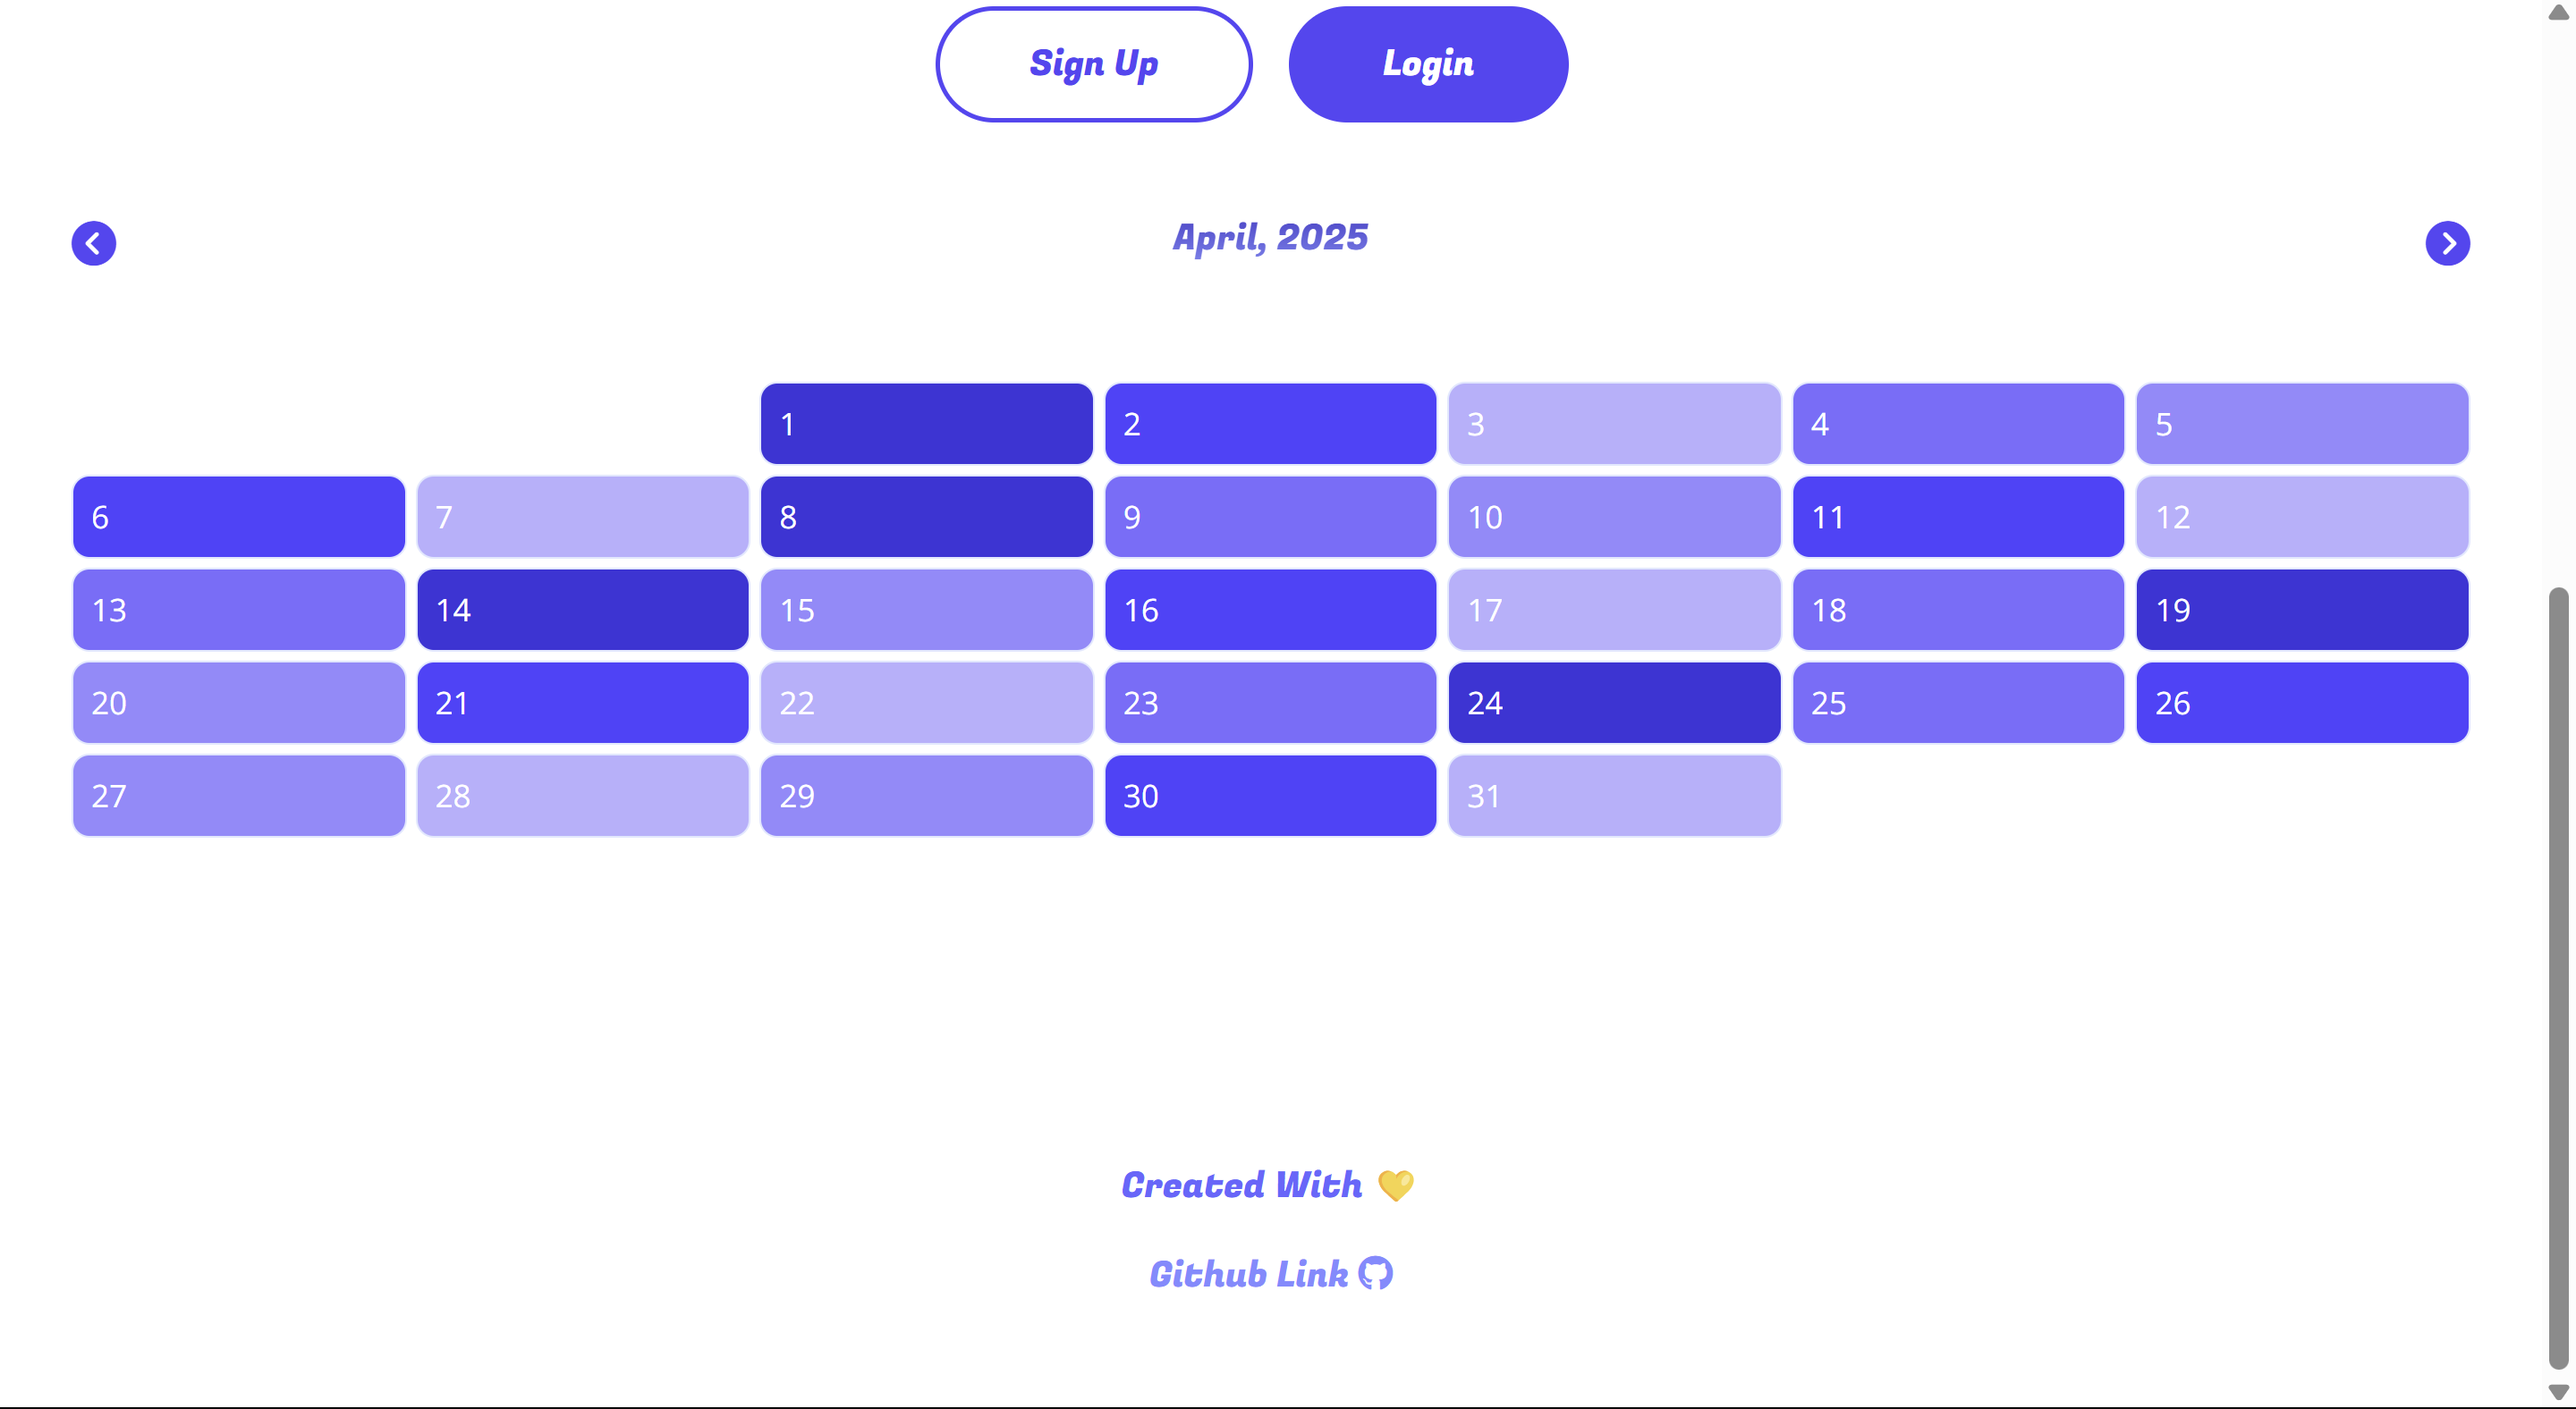
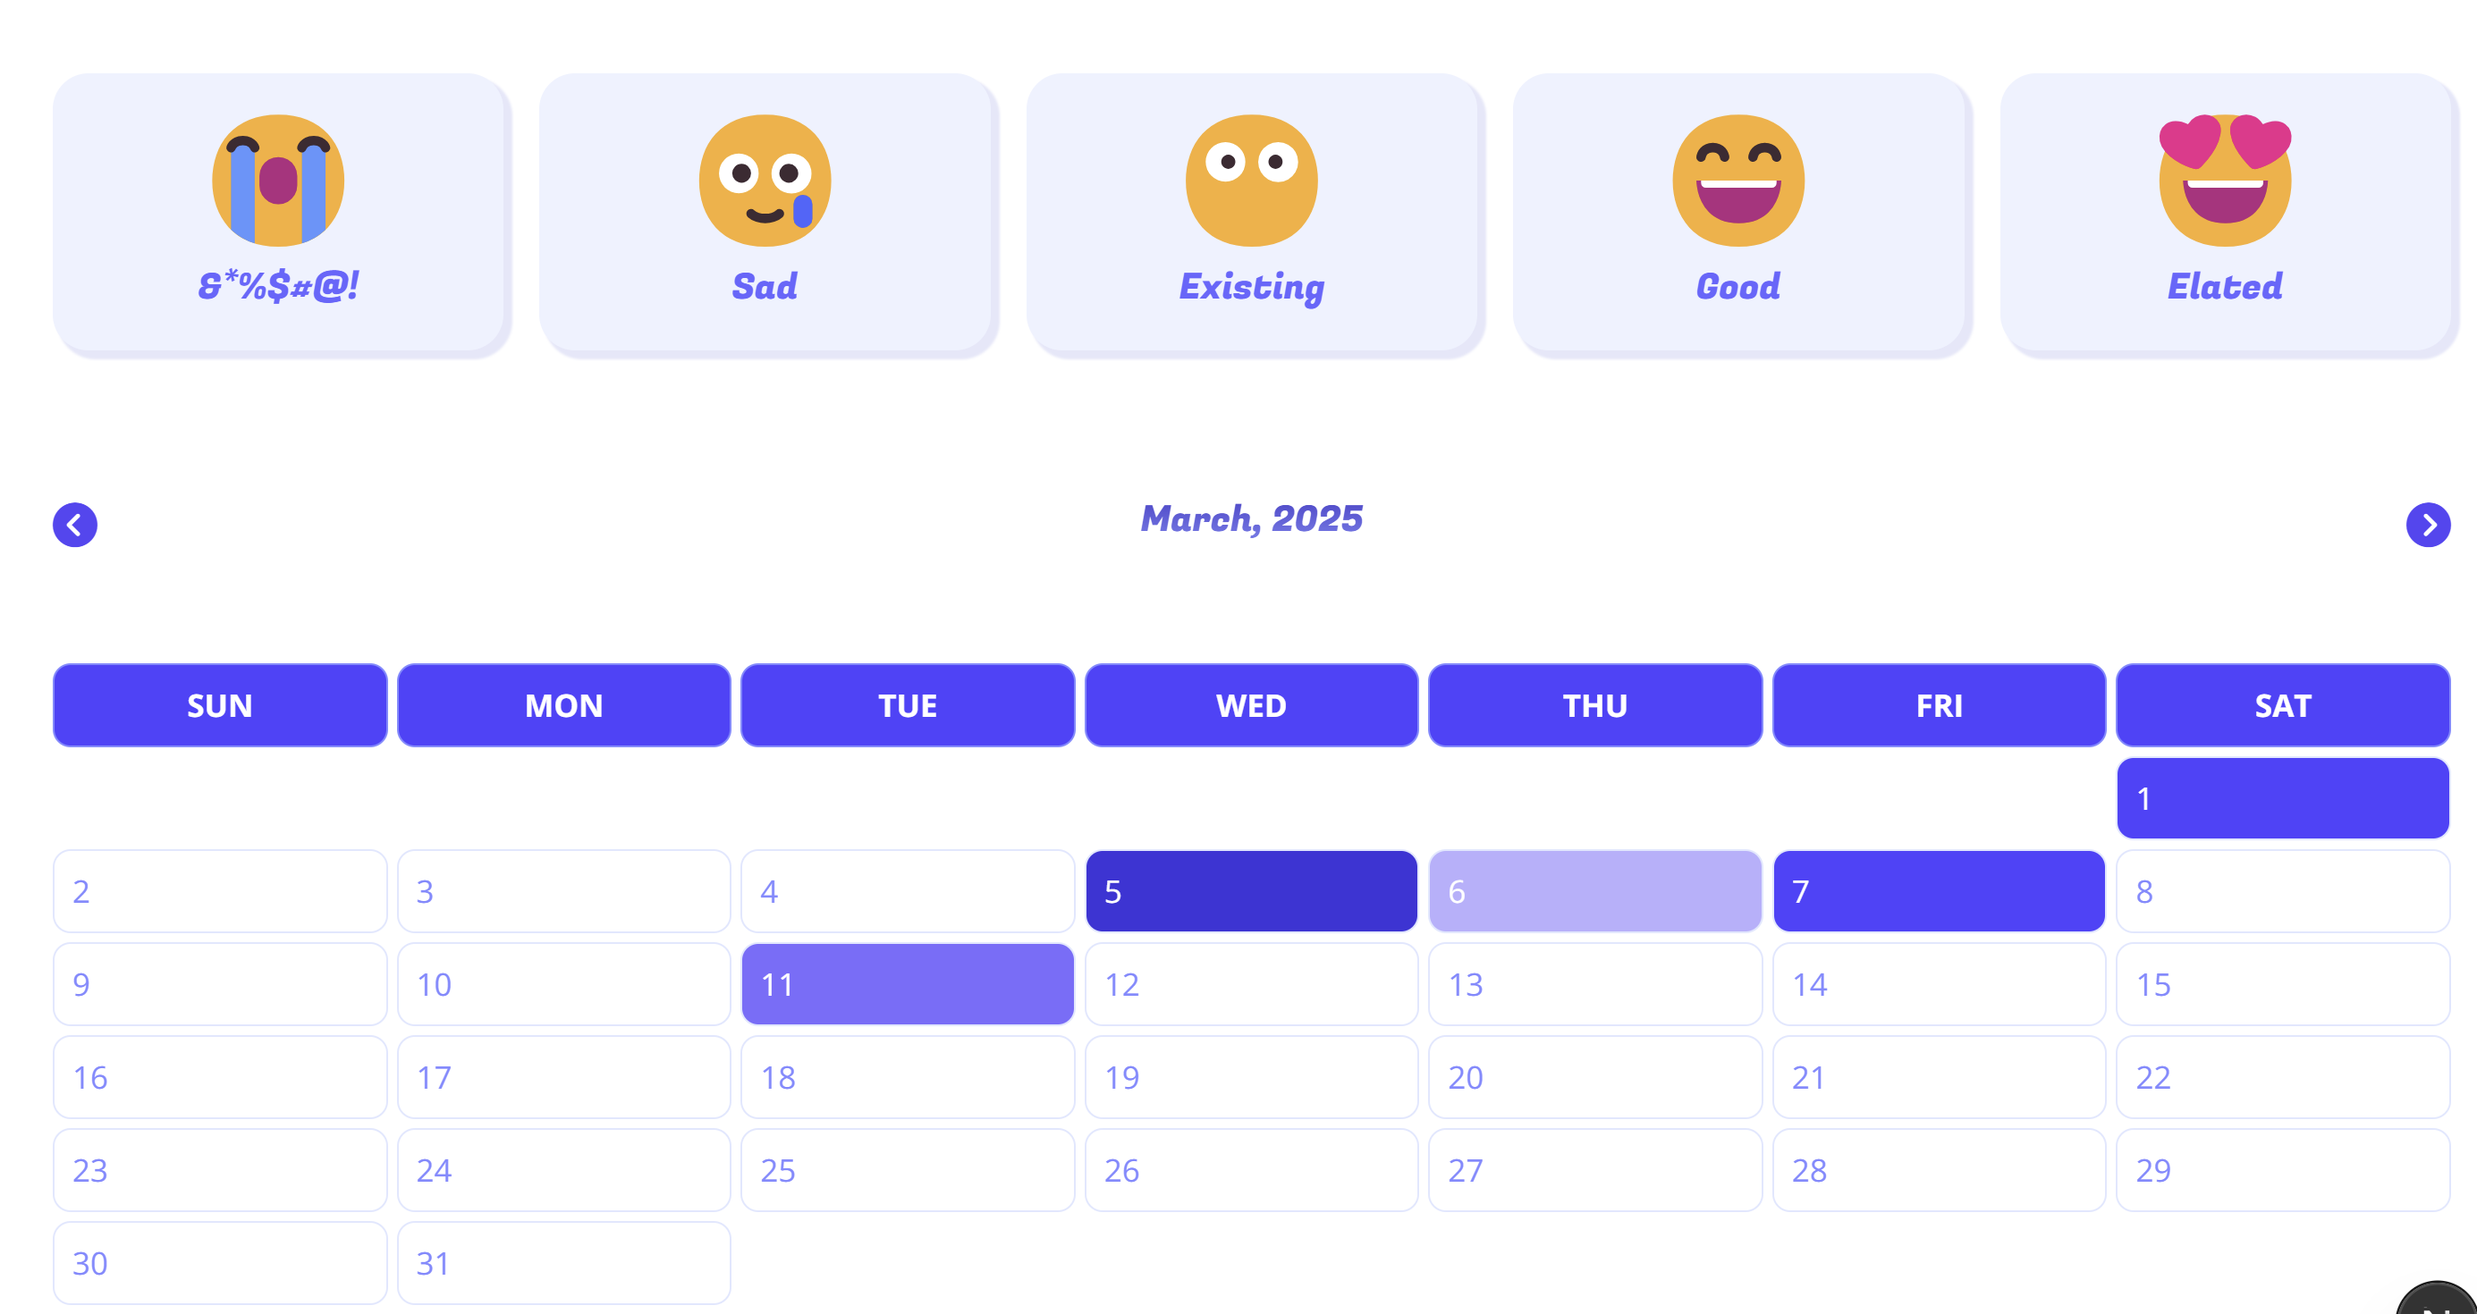
added days

diff --git a/components/Calender.js b/components/Calender.js
@@ -31,6 +31,20 @@ const dayList = [
   "Saturday",
 ];
 
+const calenderDayList = ["SUN", "MON", "TUE", "WED", "THU", "FRI", "SAT"];
+
+const dayColor = {
+  SUN: "#4833ff",
+  MON: "#b8adff",
+  TUE: "#9285ff",
+  WED: "#9285ff",
+  THU: "#7766ff",
+  FRI: "#7766ff",
+  SAT: "#4833ff",
+  // :"#dcd6ff",
+  // :"#10097a",
+};
+
 export default function Calender(props) {
   const { demo, completeData, handleSetMood } = props;
   const now = new Date();
@@ -107,6 +121,22 @@ export default function Calender(props) {
       </div>
 
       <div className="flex flex-col overflow-hidden gap-1 py-4 sm:py-6 md:py-10">
+        <div className="grid grid-cols-7 gap-1" >
+          {calenderDayList.map((day, dayIndex) => {
+            const calenderColor = dayColor[day];
+            return (
+              <div
+                className={
+                  "text-xs sm:text-sm border border-solid p-2 flex items-center justify-center gap-2 rounded-lg border-indigo-400 text-white font-bold"
+                }
+                key={dayIndex}
+                style={{ background: "#4833ff" }}
+              >
+                {day}
+              </div>
+            );
+          })}
+        </div>
         {[...Array(numRows).keys()].map((row, rowIndex) => {
           return (
             <div key={rowIndex} className="grid grid-cols-7 gap-1">
@@ -120,7 +150,8 @@ export default function Calender(props) {
                     ? false
                     : true;
 
-                let isToday = dayIndex === now.getDate() && selectedMonth == now.getMonth();
+                let isToday =
+                  dayIndex === now.getDate() && selectedMonth == now.getMonth();
 
                 if (!dayDisplay) {
                   return <div className="bg-white" key={dayOfWeekIndex} />;
